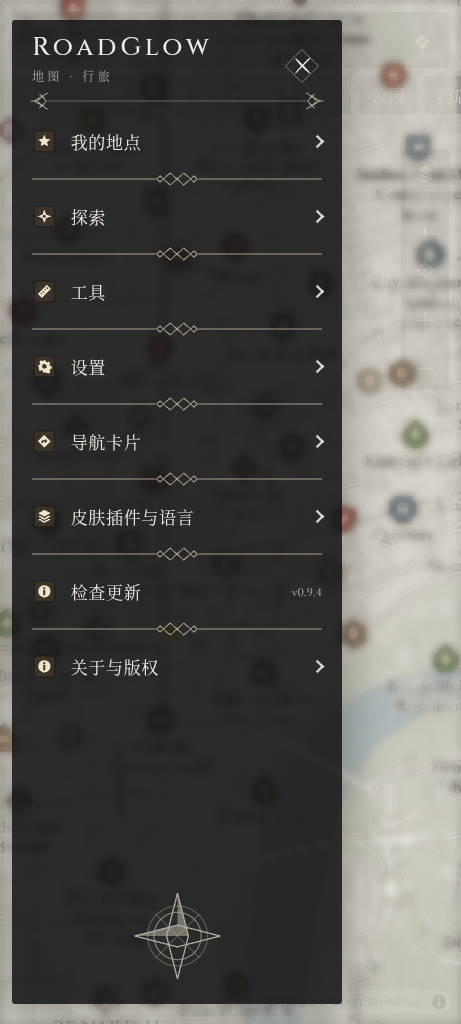
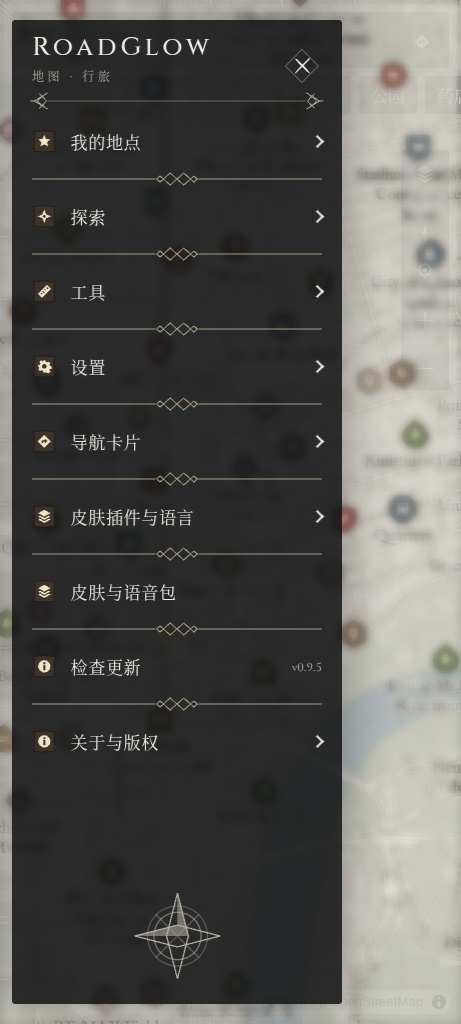
wip 0.9.5: item 5 audit shots for all 10 skin/mode variants; previews from app renders; versionCode 9050, SW v18

diff --git a/web/public/sw.js b/web/public/sw.js
@@ -1,6 +1,6 @@
 // RoadGlow service worker: offline areas. Tiles/glyphs/sprites: cache-first (filled by "Download this area").
 // App shell: network-first with cache fallback so the app opens offline after one online visit.
-const TILES = 'rg-tiles-v1', SHELL = 'rg-shell-v17', VERSION = '0.9.3c';
+const TILES = 'rg-tiles-v1', SHELL = 'rg-shell-v18', VERSION = '0.9.5';
 self.addEventListener('install', e => self.skipWaiting());
 // v0.7: drop the old shell cache and any cached styles/sprites (keep downloaded offline tiles)
 self.addEventListener('activate', e => e.waitUntil((async () => {

diff --git a/web/tools/shots095.py b/web/tools/shots095.py
@@ -7,7 +7,7 @@ exec("REC="+open(os.path.dirname(os.path.abspath(__file__))+'/audit093.py').read
 INIT = open(os.path.dirname(os.path.abspath(__file__))+'/audit093.py').read().split('INIT = ')[1].split('\nDEST')[0]
 exec('INIT='+INIT)
 DEST = "{name:'埃德蒙顿谷动物园',lat:53.5232,lng:-113.5263}"
-SCR = sys.argv[2].split(',') if len(sys.argv)>2 else ['map','drawer','search','layers','place','nav']
+SCR = sys.argv[2].split(',') if len(sys.argv)>2 else ['map','drawer','search','layers','place','packs','update','toast','nav']
 async def run(b, v):
     th, md = v.split('_'); out = ROOT+th+'/'; os.makedirs(out, exist_ok=True)
     c = await b.new_context(viewport={'width':461,'height':1024}, device_scale_factor=1, is_mobile=True, has_touch=True, service_workers='block')
@@ -25,6 +25,13 @@ async def run(b, v):
         await p.click('#layersBtn'); await p.wait_for_timeout(700); await sh('layers'); await p.evaluate("document.querySelector('#layersPop').classList.add('hidden')")
     if 'place' in SCR:
         await p.evaluate("window._app.showPlace({name:'Rexall',address:'10060 Jasper Ave NW, Edmonton',lat:53.5413,lng:-113.4935,category:'amenity=pharmacy'})"); await p.wait_for_timeout(2500); await sh('place')
+    if 'packs' in SCR:
+        await p.evaluate("window._app.tools.packs()"); await p.wait_for_timeout(1500); await sh('packs')
+    if 'update' in SCR:
+        await p.evaluate("window._app.tools.update()"); await p.wait_for_timeout(2500); await sh('update')
+    if 'toast' in SCR:
+        await p.evaluate("document.querySelector('#panelX')?.click();const t=document.querySelector('#toast');t.textContent='已复制';t.classList.remove('hidden')"); await sh('toast')
+        await p.evaluate("document.querySelector('#toast').classList.add('hidden')")
     if 'nav' in SCR:
         await p.evaluate(f"(()=>{{const a=window._app;a.S.from={{name:'A',lat:53.5444,lng:-113.4909}};a.openDirections({DEST},true)}})()"); await p.wait_for_timeout(9000); await sh('nav')
     await c.close()
